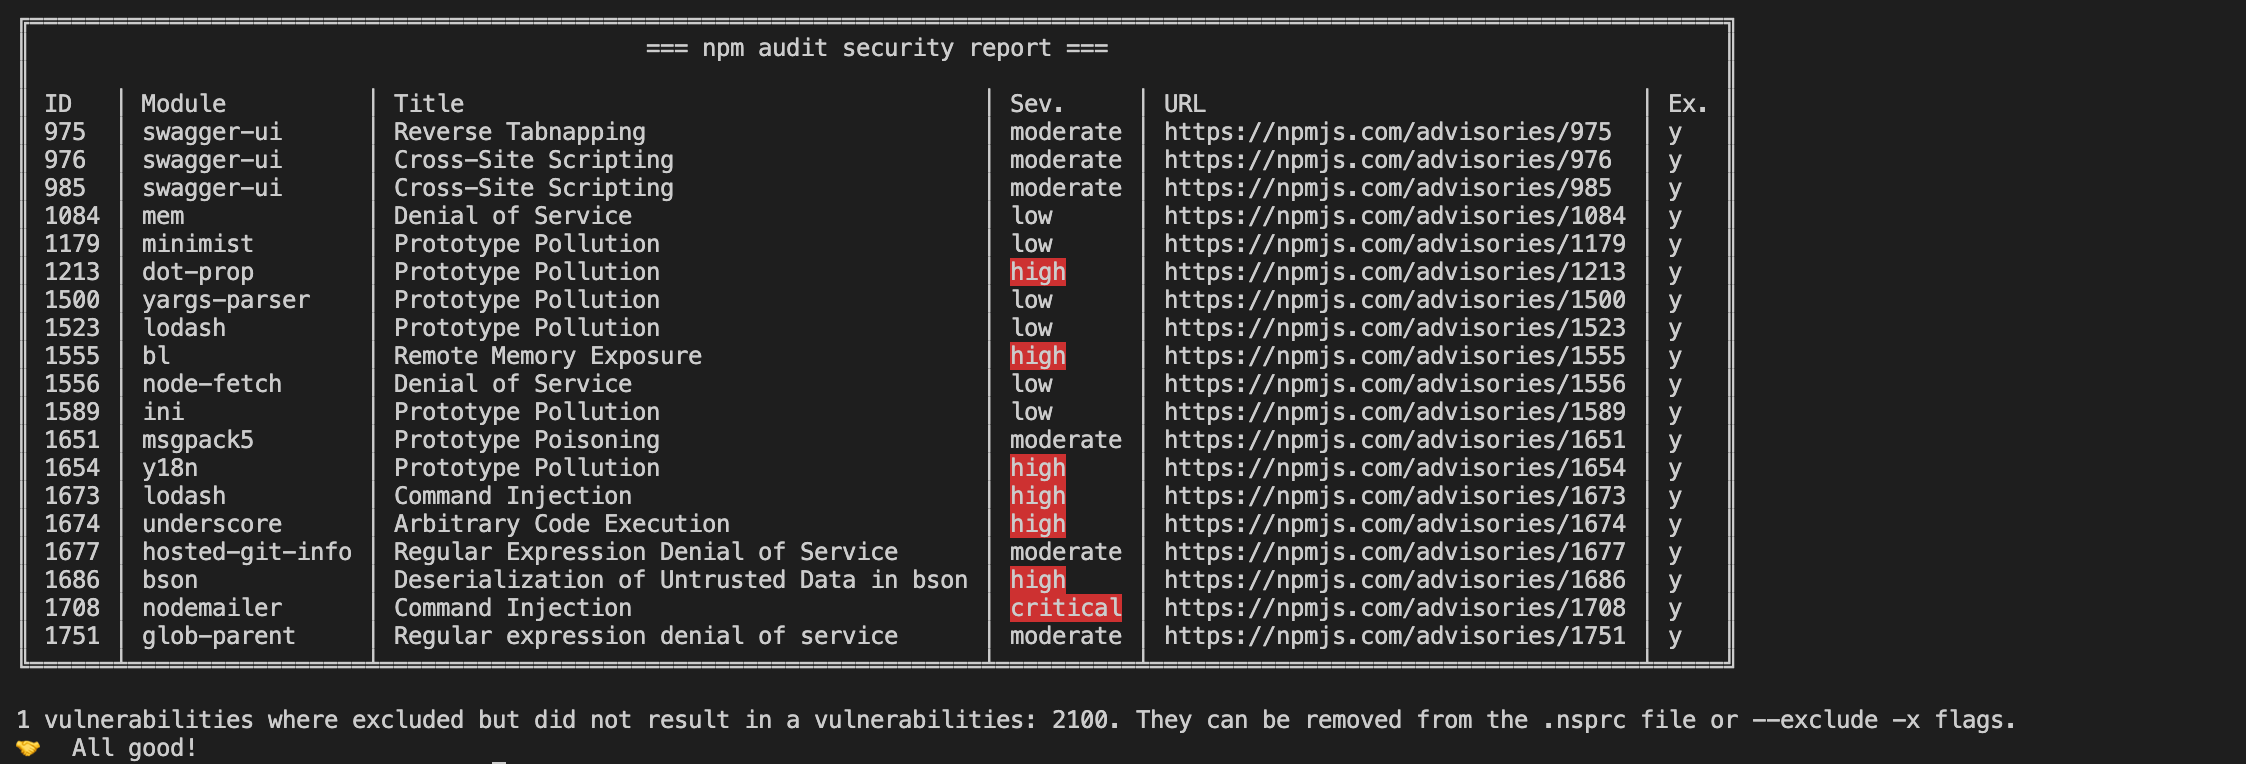
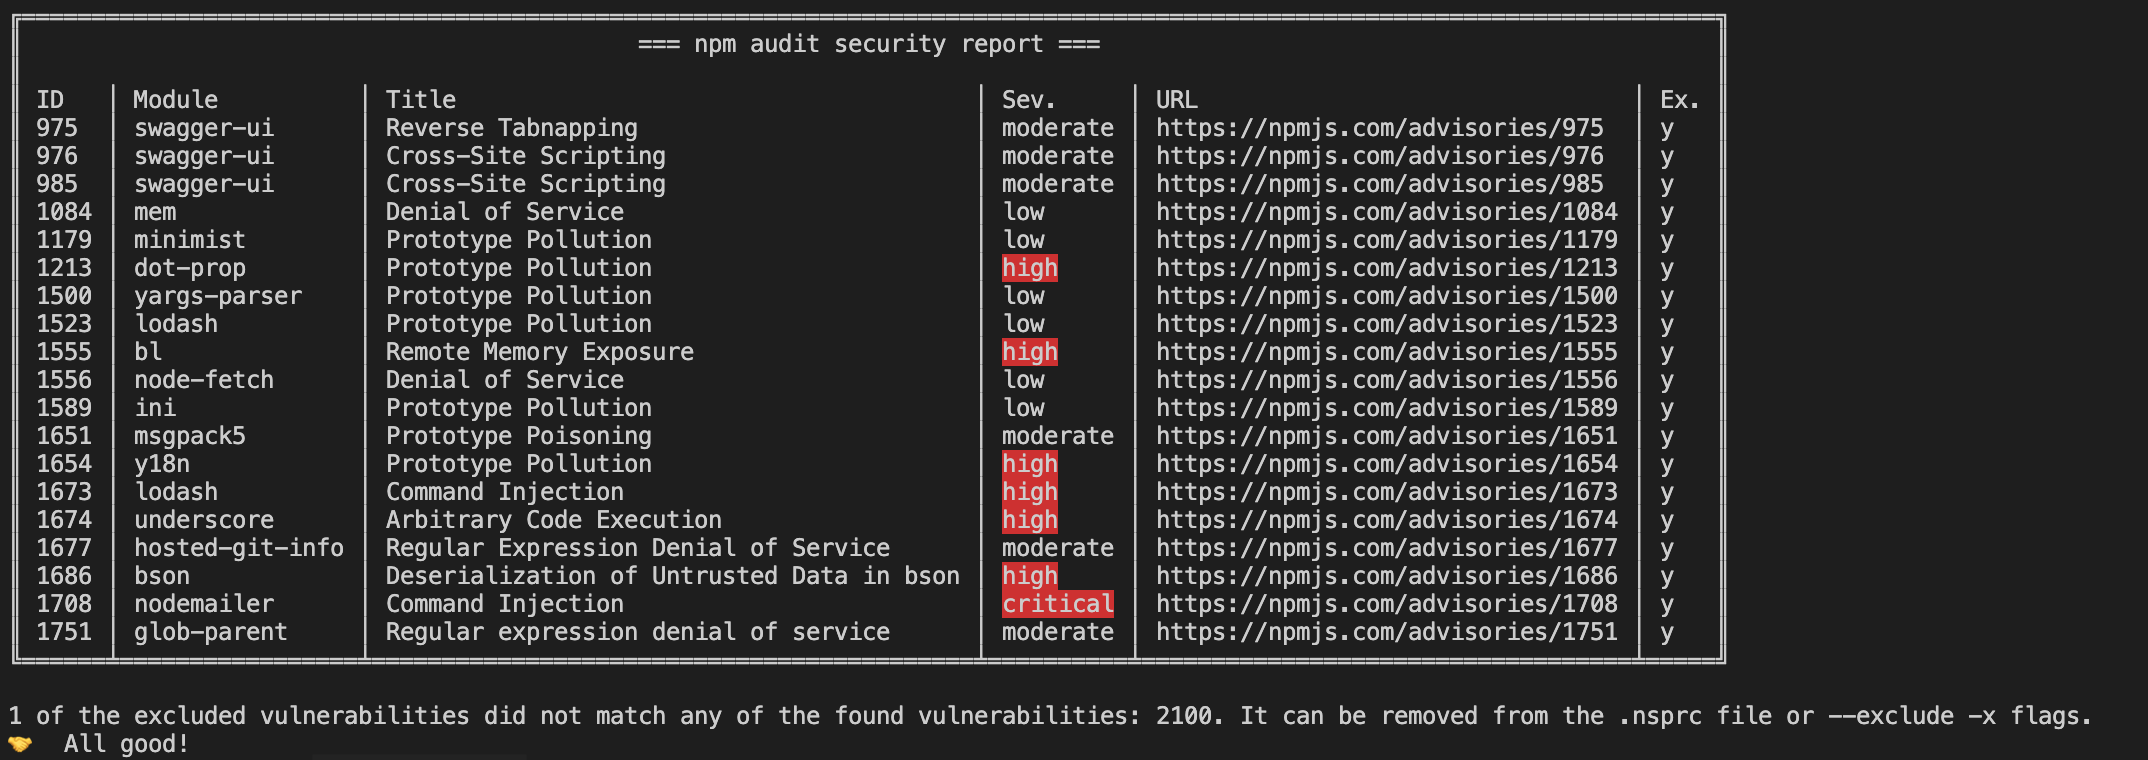
Updated wording of unused exception warning and prepare for releasing

Changed region(s): [[0.0, 0.0, 0.811, 0.8776], [0.0, 0.9079, 0.9669, 0.9987], [0.2183, 0.9987, 0.2495, 1.0]]

diff --git a/test/index.js b/test/index.js
@@ -91,7 +91,8 @@ describe('Events handling', () => {
     const consoleInfoStub = sinon.stub(console, 'info');
     const jsonBuffer = JSON.stringify(V6_JSON_BUFFER);
     const auditLevel = 'info';
-    const exceptionIds = [975, 976, 985, 1084, 1179, 1213, 1500, 1523, 1555, 2001, 2002];
+
+    let exceptionIds = [975, 976, 985, 1084, 1179, 1213, 1500, 1523, 1555, 2001];
 
     expect(processStub.called).to.equal(false);
     expect(consoleErrorStub.called).to.equal(false);
@@ -107,8 +108,17 @@ describe('Events handling', () => {
 
     expect(consoleInfoStub.called).to.equal(true); // Print security report
     expect(consoleWarnStub.called).to.equal(true);
+
+    // Message for one unused exception
     // eslint-disable-next-line max-len
-    const message = `2 vulnerabilities where excluded but did not result in a vulnerabilities: 2001, 2002. They can be removed from the .nsprc file or --exclude -x flags.`;
+    let message = `1 of the excluded vulnerabilities did not match any of the found vulnerabilities: 2001. It can be removed from the .nsprc file or --exclude -x flags.`;
+    expect(consoleWarnStub.calledWith(message)).to.equal(true);
+
+    // Message for multiple unused exceptions
+    exceptionIds = [975, 976, 985, 1084, 1179, 1213, 1500, 1523, 1555, 2001, 2002];
+    handleFinish(jsonBuffer, auditLevel, exceptionIds);
+    // eslint-disable-next-line max-len
+    message = `2 of the excluded vulnerabilities did not match any of the found vulnerabilities: 2001, 2002. They can be removed from the .nsprc file or --exclude -x flags.`;
     expect(consoleWarnStub.calledWith(message)).to.equal(true);
 
     processStub.restore();

diff --git a/index.js b/index.js
@@ -44,9 +44,11 @@ function handleFinish(jsonBuffer, auditLevel, exceptionIds) {
 
   // Display the unused exceptionId's
   if (unusedExceptionIds.length) {
-    // eslint-disable-next-line max-len
-    const message = `${unusedExceptionIds.length} vulnerabilities where excluded but did not result in a vulnerabilities: ${unusedExceptionIds.join(', ')}. They can be removed from the .nsprc file or --exclude -x flags.`;
-    console.warn(message);
+    const messages = [
+      `${unusedExceptionIds.length} of the excluded vulnerabilities did not match any of the found vulnerabilities: ${unusedExceptionIds.join(', ')}.`,
+      `${unusedExceptionIds.length > 1 ? 'They' : 'It'} can be removed from the .nsprc file or --exclude -x flags.`,
+    ];
+    console.warn(messages.join(' '));
   }
 
   // Display the found unhandled vulnerabilities

diff --git a/CHANGELOG.md b/CHANGELOG.md
@@ -1,4 +1,4 @@
-## Next: 2.0.3-rc
+## 2.0.4 (June 22, 2021)
 
 ### Notable changes
 
@@ -23,7 +23,7 @@
 * Added `.github/FUNDING.yml`
 * Updated `README.md`
 
-## Closed issues
+### Closed issues
 
 * [#20](https://github.com/jeemok/better-npm-audit/issues/20) Provide more output when parsing exceptions file
 * [#27](https://github.com/jeemok/better-npm-audit/issues/27) Hide excepted vulnerabilities from output
